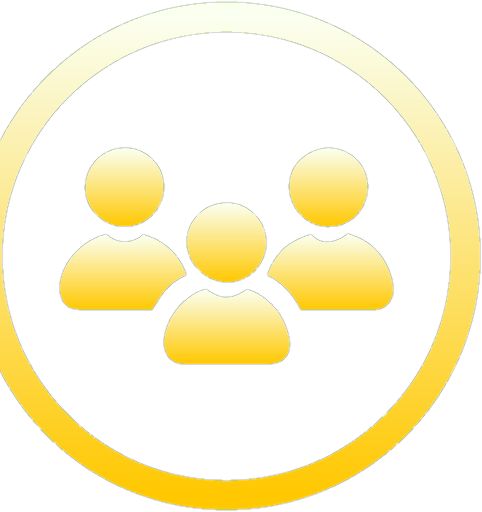
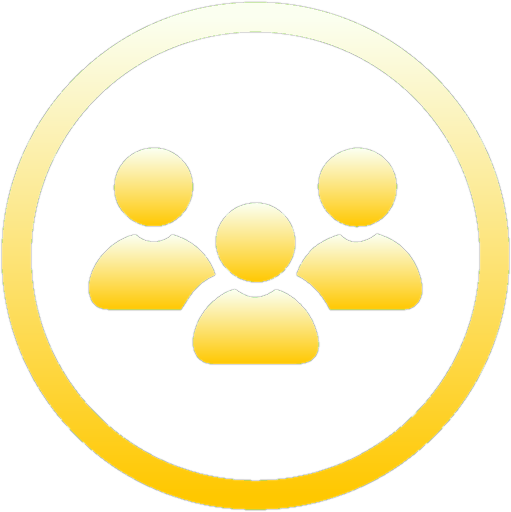
Refine hero per screenshot and fix mobile overflow
- Keep each heading line unwrapped (чтобы влюбиться on one line)
- Re-extract the hero image without white-keying (no holes in white
  objects); match the section background to it; align it higher
- Hero CTAs are now rounded rectangles; thicken the white button's
  light-green border
- Re-extract the third feature icon centred so its ring isn't clipped
- Add min-width:0 to carousel viewport / reviews column to stop the
  reviews carousel forcing horizontal page scroll on mobile

Claude-Session: https://claude.ai/code/session_01AYj9tbjj1WconamADHn7BC

diff --git a/styles.css b/styles.css
@@ -50,7 +50,7 @@ a { text-decoration: none; color: inherit; }
 .btn-ghost:hover { border-color: var(--green); color: var(--green); transform: translateY(-2px); }
 .btn-teal { background: var(--green-d); color: #fff; box-shadow: 0 12px 26px rgba(12,92,70,.30); }
 .btn-teal:hover { background: var(--green-dd); transform: translateY(-2px); box-shadow: 0 16px 32px rgba(12,92,70,.38); }
-.btn-white-green { background: #fff; color: var(--green); border: 2px solid #B9E6BC; }
+.btn-white-green { background: #fff; color: var(--green); border: 4px solid #AEE0B1; }
 .btn-white-green:hover { border-color: var(--green); transform: translateY(-2px); box-shadow: 0 10px 24px rgba(22,191,65,.18); }
 .btn-link-light { background: transparent; color: #fff; text-decoration: underline; text-underline-offset: 4px; padding: 14px 10px; }
 .btn-link-light:hover { opacity: .8; }
@@ -76,22 +76,23 @@ a { text-decoration: none; color: inherit; }
 .brandbar-actions { display: flex; align-items: center; gap: 12px; }
 
 /* ===================== HERO ===================== */
-.hero { background: var(--bg-soft); position: relative; overflow: hidden; }
-.hero-inner { position: relative; min-height: 660px; display: flex; align-items: center; }
-.hero-text { position: relative; z-index: 3; max-width: 560px; padding: 60px 0 80px; }
-.hero-text h1 { font-size: clamp(40px, 4.6vw, 66px); line-height: 1.05; color: var(--green-d); font-weight: 400; letter-spacing: -.5px; }
+.hero { background: #FEFEFE; position: relative; overflow: hidden; }
+.hero-inner { position: relative; min-height: 600px; display: flex; align-items: center; }
+.hero-text { position: relative; z-index: 3; max-width: 640px; padding: 52px 0 64px; }
+.hero-text h1 { font-size: clamp(36px, 4.4vw, 62px); line-height: 1.1; color: var(--green-d); font-weight: 400; letter-spacing: -.5px; white-space: nowrap; }
 .hero-text h1 .h1-bold { font-weight: 700; }
-.hero-sub { margin: 26px 0 36px; color: var(--ink); font-size: 19px; font-weight: 500; }
-.hero-buttons { display: flex; flex-direction: column; align-items: flex-start; gap: 14px; }
+.hero-sub { margin: 24px 0 34px; color: var(--ink); font-size: 19px; font-weight: 500; }
+.hero-buttons { display: flex; flex-direction: column; align-items: flex-start; gap: 16px; }
+.hero-buttons .btn { border-radius: 14px; padding: 20px 38px; font-size: 16.5px; min-width: 370px; }
 .hero-image {
-  position: absolute; top: 50%; transform: translateY(-50%);
+  position: absolute; top: 30px; transform: none;
   right: calc((100% - 100vw) / 2);   /* bleed to the viewport's right edge */
-  width: min(63vw, 1180px); z-index: 1; pointer-events: none;
+  width: min(62vw, 1160px); z-index: 1; pointer-events: none;
 }
-.hero-image img { width: 100%; height: auto; filter: drop-shadow(0 24px 40px rgba(20,40,30,.10)); }
+.hero-image img { width: 100%; height: auto; }
 
 /* ===================== FEATURE BAND ===================== */
-.features { background: var(--bg-soft); padding: 6px 0 64px; }
+.features { background: #FEFEFE; padding: 6px 0 64px; }
 .features-band {
   position: relative; border-radius: 36px; padding: 56px 40px 50px;
   display: grid; grid-template-columns: repeat(3, 1fr); gap: 24px;
@@ -114,7 +115,7 @@ a { text-decoration: none; color: inherit; }
 /* ===================== PROGRAMS / CAROUSEL ===================== */
 .programs { padding: 70px 0; }
 .carousel { position: relative; padding: 0 8px; }
-.car-viewport { overflow: hidden; }
+.car-viewport { overflow: hidden; min-width: 0; }
 .car-track { display: flex; gap: 24px; transition: transform .5s var(--ease); will-change: transform; }
 .car-track > * { flex: 0 0 calc((100% - 48px) / 3.3); }
 
@@ -245,7 +246,7 @@ a { text-decoration: none; color: inherit; }
 /* ===================== REVIEWS ===================== */
 .reviews { padding: 20px 0 90px; }
 .reviews-inner { display: grid; grid-template-columns: 1.25fr 1fr; gap: 40px; align-items: stretch; }
-.reviews-left { display: flex; flex-direction: column; }
+.reviews-left { display: flex; flex-direction: column; min-width: 0; }
 .reviews-left .section-title { margin-bottom: 24px; }
 .reviews-left .carousel { padding: 0; flex: 1; }
 .review-card { background: #fff; border: 1px solid #eef1ee; border-radius: var(--radius); padding: 28px 26px; box-shadow: var(--shadow-sm); }
@@ -321,7 +322,9 @@ a { text-decoration: none; color: inherit; }
   .topnav { display: none; }
   .hero-inner { flex-direction: column; min-height: 0; text-align: center; padding-top: 24px; }
   .hero-text { max-width: 100%; order: 2; padding: 10px 0 50px; }
-  .hero-buttons { align-items: center; }
+  .hero-text h1 { white-space: normal; }
+  .hero-buttons { align-items: center; width: 100%; }
+  .hero-buttons .btn { min-width: 0; width: 100%; max-width: 440px; }
   .hero-image { position: static; transform: none; width: 100%; max-width: 540px; margin: 0 auto; order: 1; }
   .features-band { grid-template-columns: 1fr; gap: 36px; padding: 44px 28px; }
   .method-grid { grid-template-columns: 1fr; }
